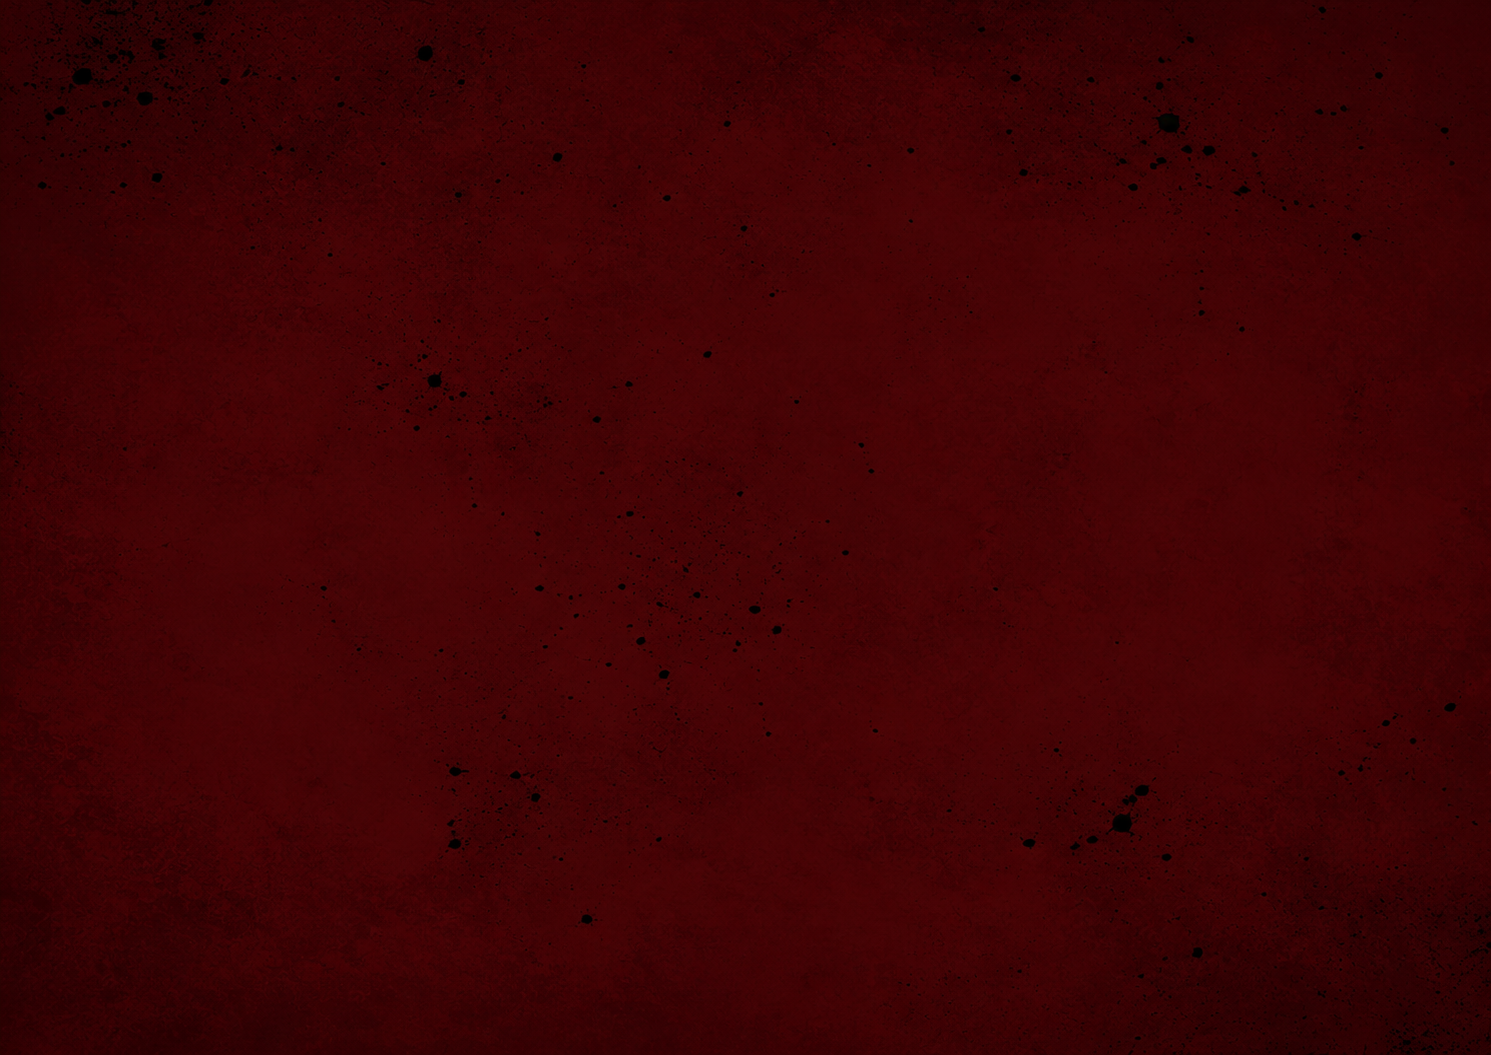
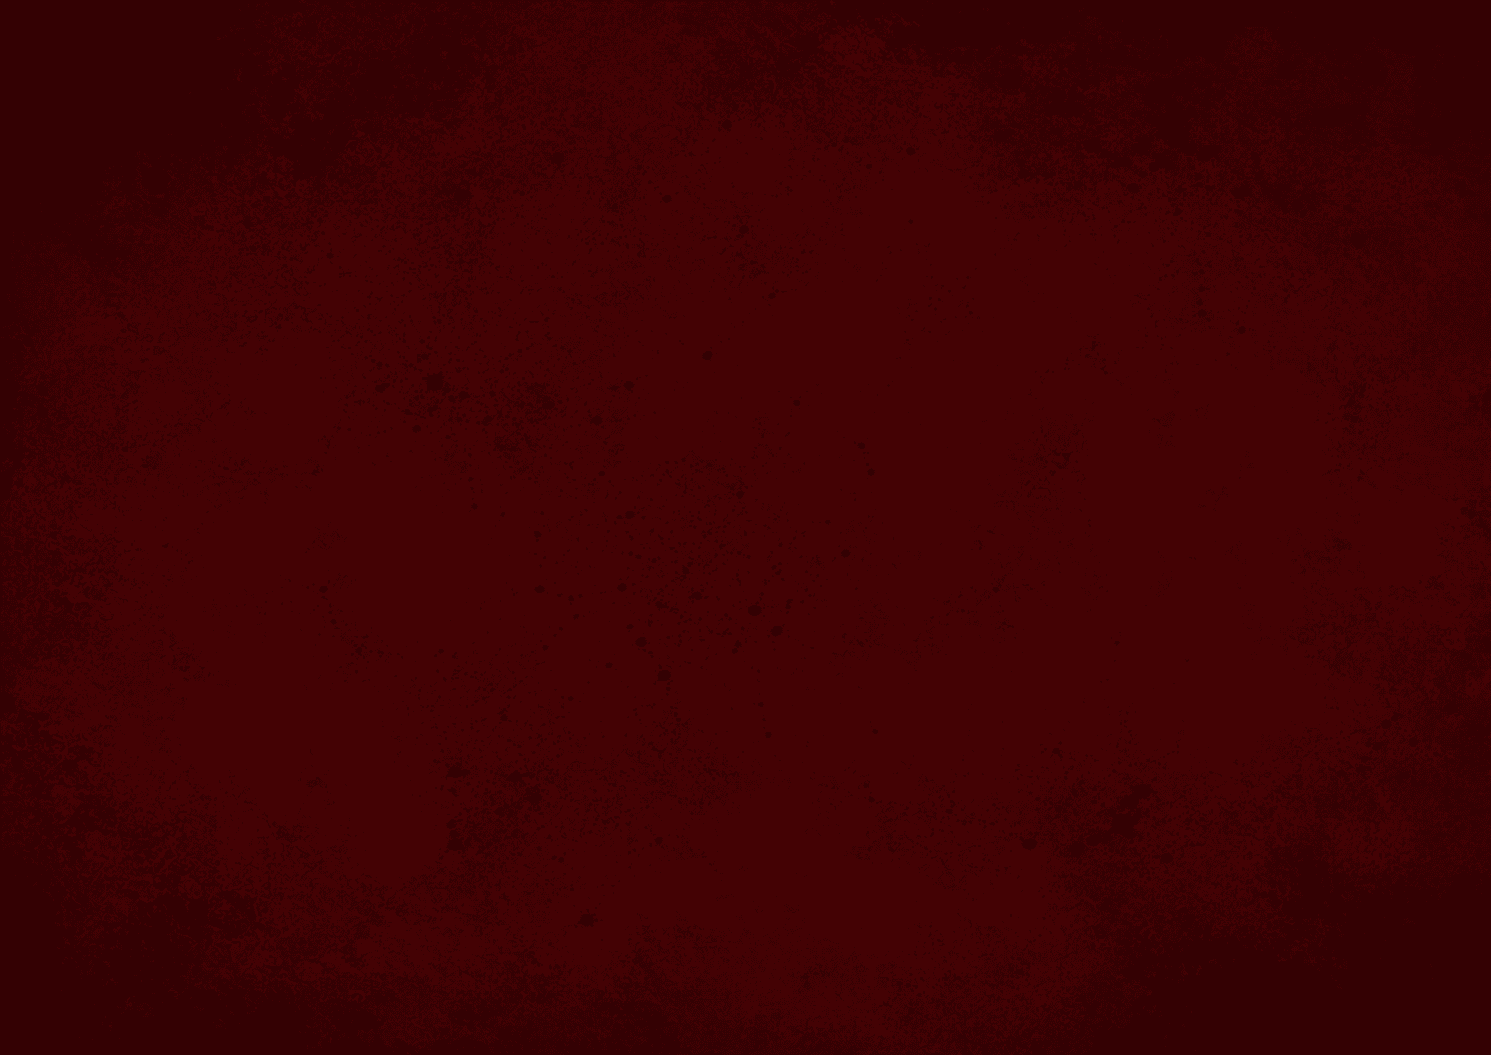
o

diff --git a/aliza'fest/js/script.js b/aliza'fest/js/script.js
@@ -1,79 +1,15 @@
-const lists = document.querySelectorAll("ul");
-const now = new Date();
+const video = document.querySelector(".background-video");
 
-let nextConcert = null;
-let nextDate = null;
+if (window.innerWidth <= 768) {
+  if (video) {
+    video.pause();
+    video.removeAttribute("autoplay");
+    video.removeAttribute("loop");
+    video.removeAttribute("src");
 
-// 📱 détection mobile
-const isMobile = window.matchMedia("(max-width:768px)").matches;
+    const source = video.querySelector("source");
+    if (source) source.remove();
 
-// 🔁 TRI + CLASSES
-lists.forEach(list => {
-  const concerts = Array.from(list.querySelectorAll(".concert"));
-
-  concerts.forEach(el => {
-    const date = new Date(el.dataset.date);
-    if (isNaN(date)) return;
-
-    if (date < now) {
-      el.classList.add("past");
-    } else {
-      el.classList.add("upcoming");
-
-      if (!nextDate || date < nextDate) {
-        nextDate = date;
-        nextConcert = el;
-      }
-    }
-  });
-
-  concerts
-    .sort((a, b) => {
-      const dateA = new Date(a.dataset.date);
-      const dateB = new Date(b.dataset.date);
-
-      const aPast = dateA < now;
-      const bPast = dateB < now;
-
-      if (aPast !== bPast) return aPast ? 1 : -1;
-      return dateA - dateB;
-    })
-    .forEach(el => list.appendChild(el));
-});
-
-// ⭐ mise en avant prochain concert
-if (nextConcert) {
-  nextConcert.classList.add("next-concert");
+    video.load();
+  }
 }
-
-// =========================
-// 🎤 LIGHTBOX
-// =========================
-
-const lightbox = document.getElementById("lightbox");
-const lightboxImg = document.getElementById("lightbox-img");
-
-document.querySelectorAll(".concert").forEach(item => {
-  item.addEventListener("click", (e) => {
-
-    const img = item.dataset.img;
-
-    if (!img) return;
-
-    // 📱 MOBILE → pas de lightbox
-    if (isMobile) {
-      window.open(img, "_blank");
-      return;
-    }
-
-    // 💻 DESKTOP → lightbox
-    lightboxImg.src = img;
-    lightbox.style.display = "flex";
-  });
-});
-
-// ❌ fermer lightbox
-lightbox.addEventListener("click", () => {
-  lightbox.style.display = "none";
-  lightboxImg.src = "";
-});

diff --git a/aliza'fest/css/style.css b/aliza'fest/css/style.css
@@ -18,6 +18,11 @@
   z-index: -1;
   opacity: 0.5; /* option pour laisser lire le texte */
 }
+@media (max-width: 768px) {
+  .background-video {
+    display: none !important;
+  }
+}
 
 .hero-content {
     height: 100%;